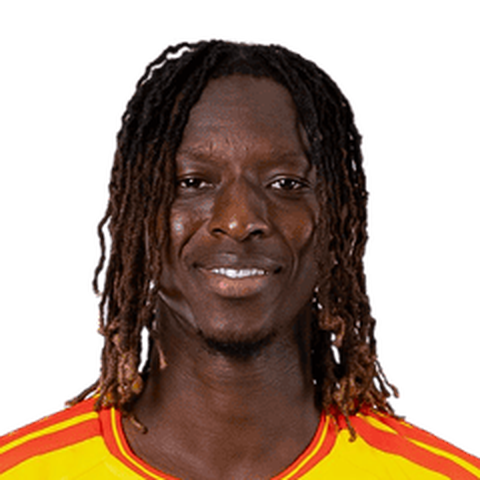
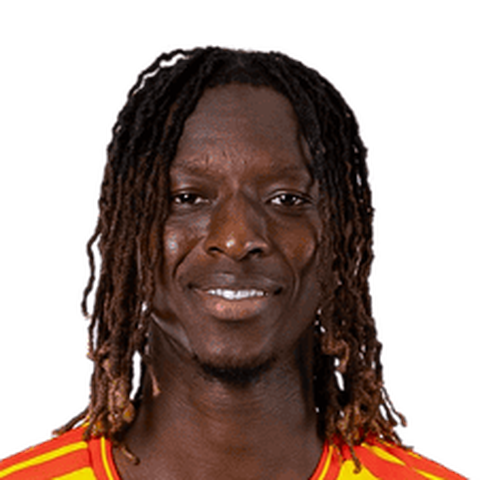
Photos Sangaré, Haïdara, Dorgeles : même cadrage que Hamari et Sinayoko dans le rond de fiche
Claude-Session: https://claude.ai/code/session_01HrXdBFJwxbhqadNHYHNDER

Changed region(s): [[0.0, 0.0625, 1.0, 1.0]]

diff --git a/visuels/photos/SOURCES.md b/visuels/photos/SOURCES.md
@@ -6,6 +6,6 @@
 | 3248 | Hamari Traoré | 3248_libre_2017.png (réserve) | https://commons.wikimedia.org/wiki/File:Stade_rennais_vs_SM_Caen,_July_22nd_2017_-_Traor%C3%A9_(2).jpg | S. Plaine | CC BY-SA 4.0 | 2017-07-22 | recadrée, légèrement éclaircie |
 | 105182 | Lassine Sinayoko | 105182.png | https://parisfc.fr/en/pro-homme-joueurs/lassine-sinayoko/ (fichier déposé par Diaby le 2026-10-07) | Paris FC | photo officielle du club, non libre : à retirer si le club le demande | saison 2026/2027 | recadrée (tête), fond transparent d'origine |
 | 11277 | Victor Osimhen | 11277.png | https://www.galatasaray.org/p/45-victor-osimhen/3314 (fichier déposé par Diaby le 2026-10-07) | Galatasaray | photo officielle du club, non libre : à retirer si le club le demande | saison 2026/2027 | recadrée (tête), agrandie : image d'origine très petite (200 px) |
-| mamadou-sangare-2002 (id du registre, pas d'id StatsBomb) | Mamadou Sangaré | mamadou-sangare-2002.png (original gardé : mamadou-sangare-2002_original.png) | https://www.brentfordfc.com/en/teams/profile/Mamadou-Sangare (fichier envoyé par Diaby le 2026-10-14) | Brentford FC | photo officielle du club, non libre : à retirer si le club le demande | en ligne sur le site du club le 2026-10-14 (saison non indiquée) | recadrée (tête et épaules, 490 px), fond transparent d'origine |
+| mamadou-sangare-2002 (id du registre, pas d'id StatsBomb) | Mamadou Sangaré | mamadou-sangare-2002.png (original gardé : mamadou-sangare-2002_original.png) | https://www.brentfordfc.com/en/teams/profile/Mamadou-Sangare (fichier envoyé par Diaby le 2026-10-14) | Brentford FC | photo officielle du club, non libre : à retirer si le club le demande | en ligne sur le site du club le 2026-10-14 (saison non indiquée) | recadrée (tête et épaules, 480 px, même cadrage que Hamari et Sinayoko dans le rond de la fiche), fond transparent d'origine |
 | amadou-haidara-1998 (id du registre) | Amadou Haïdara | amadou-haidara-1998.png (original gardé : amadou-haidara-1998_original.png) | photo officielle du RC Lens, envoyée par Diaby le 2026-10-14 depuis https://www.rclens.fr/fr/equipe-premiere/effectif/joueurs/amadou-haidara ou https://ligue1.com/fr/player-sheet/l1_championship_player_2026_6_505617/statistics (page exacte à préciser) | RC Lens | photo officielle du club, non libre : à retirer si le club le demande | en ligne le 2026-10-14 (saison non indiquée) | recadrée (tête et épaules), agrandie x2 : original 800 x 600, visage petit |
 | nene-dorgeles-2002 (id du registre) | Nene Dorgeles | nene-dorgeles-2002.png (original gardé : nene-dorgeles-2002_original.png) | photo officielle de Fenerbahçe (site fenerbahce.org, https://www.fenerbahce.org/branslar/futbolatakimi/sporcular/forvet/dorgeles-nene), fichier envoyé par Diaby le 2026-10-14 | Fenerbahçe SK | photo officielle du club, non libre : à retirer si le club le demande | en ligne le 2026-10-14 (saison non indiquée) | fond bleu retiré (détourage automatique rembg, isnet-general-use), recadrée (tête et épaules), agrandie : original 249 x 315, très petit ; éclaircie (+25 %) car l'original est assombri |
